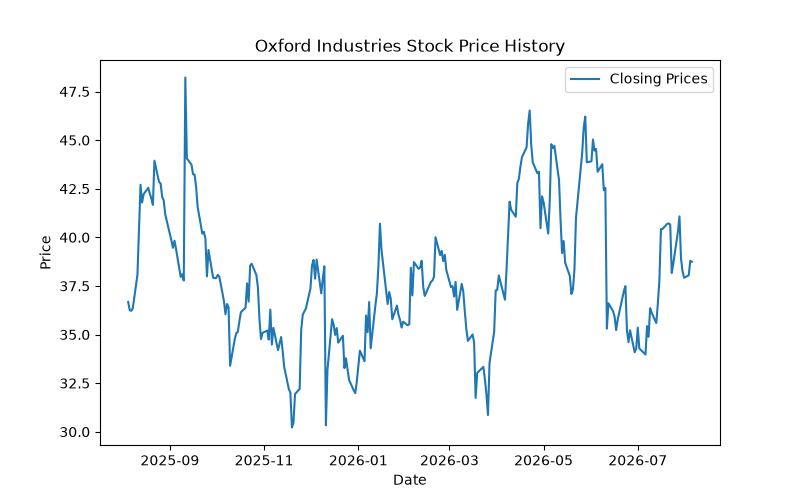
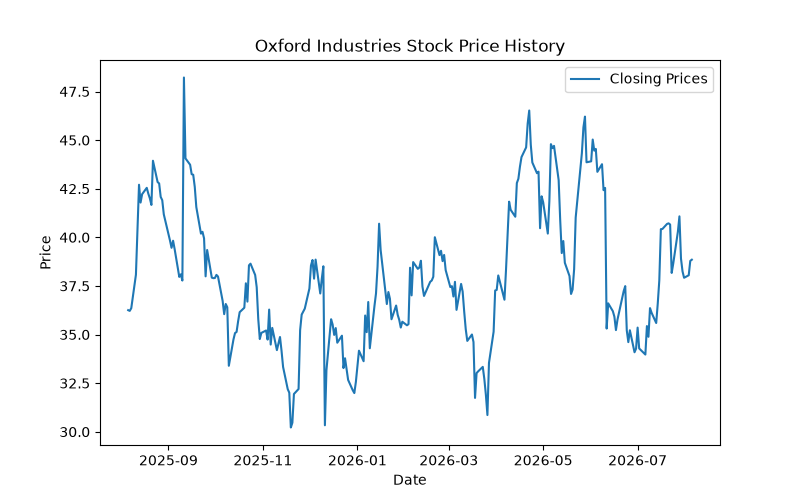
Completed Tommy Bahama project: OXM stock trend with moving average, F&B segment revenue bar charts (yearly and Q1), and summary questions for Carey Wong meeting

diff --git a/TommyBahama.py b/TommyBahama.py
@@ -27,3 +27,38 @@ plt.ylabel("Price")
 plt.title("Oxford Industries Stock Price with 30-Day Moving Average")
 plt.legend()
 plt.savefig("oxm_stock_price_moving_average.png")
+
+#Tommy Bahama Food & Beverage Segment Analysis
+f_and_b_yearly_revenue = {"2022": 109, "2025": 121}
+f_and_b_quarter1_revenue = {"2024":35, "2025": 34}
+
+growth_rate = (f_and_b_yearly_revenue["2025"] - f_and_b_yearly_revenue["2022"])/f_and_b_yearly_revenue["2022"] * 100
+print( "Three Year Growth Rate of Tommy Bahama Food & Beverage Segment", growth_rate, "%")
+
+first_quarter_growth_rate = (f_and_b_quarter1_revenue["2025"] - f_and_b_quarter1_revenue["2024"])/f_and_b_quarter1_revenue["2024"] * 100
+print("First Quarter Growth Rate of Tommy Bahama Food & Beverage Segment", first_quarter_growth_rate, "%")
+
+#Food and beverage segment grew 11% over three years and yet the first quarter of 2025 saw a 3% decline in revenue compared to first quarter of 2024.
+#Did most of the growth happen between 2022-2024? 
+#Has there been a decline in revenue since 2024 or is food & bev seasonal?
+
+#Bar Chart of Food & Beverage Revenue
+years = list(f_and_b_yearly_revenue.keys())
+revenues = list(f_and_b_yearly_revenue.values())
+plt.figure(figsize=(8,5))
+plt.bar(years, revenues, color='purple')
+plt.xlabel("Year")
+plt.ylabel("Revenue In Millions")
+plt.title("Tommy Bahama Food & Beverage Segment Yearly Revenue")
+plt.savefig("tommy_bahama_food_beverage_yearly_revenue.png")
+
+quarters = list(f_and_b_quarter1_revenue.keys())
+quarter1_revenues = list(f_and_b_quarter1_revenue.values())
+plt.figure(figsize=(8,5))
+plt.bar(quarters, quarter1_revenues, color='green')
+plt.xlabel("Year")
+plt.ylabel("Revenue In Millions")
+plt.title("Tommy Bahama Food & Beverage Segment First Quarter Revenue")
+plt.savefig("tommy_bahama_food_beverage_first_quarter_revenue.png")
+
+
